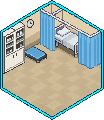
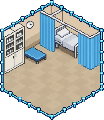
양호실 테두리를 운동장과 같은 청록색 울타리로 통일

Changed region(s): [[0.0, 0.0, 1.0, 1.0]]

diff --git a/docs/design.md b/docs/design.md
@@ -127,3 +127,5 @@
 - 양호실: 꼭짓점이 위/아래인 한 칸 육각형 안에 침대·커튼·약장을 재배치. 운동장: 위 두 칸/아래 한 칸 합집합 안에 트랙을 작게 넣고 아래는 운동 공간으로 구성. 원작 그대로의 복원 그림이 아님.
 - 두 전용 그림은 점유 경계 상자에 정렬하고, 모든 시설은 회전된 점유 칸 합집합으로 최종 클리핑해 바깥 침범을 방지. 예전의 전체 그림 무클리핑 방식은 폐기.
 - 생성 프롬프트: 양호실은 원본 베이지 바닥·푸른 커튼·침대·약장과 DS 도트 느낌을 보존해 정확한 정육각형으로 재구성, 외부 투명/인물·문자 없음. 운동장은 3칸 합집합 꼭짓점 (25,0),(50,14.286),(75,0),(100,14.286),(100,42.857),(75,57.143),(75,85.714),(50,100),(25,85.714),(25,57.143),(0,42.857),(0,14.286)에 맞춰 흙 트랙과 청색 울타리를 내부로 재구성, 외부 투명. 도트 해상도 정규화: tools/resize_facility.ps1.
+
+- 양호실 테두리 편집 프롬프트(built-in image_gen): 기존 양호실 내부의 약장·시계·벤치·침대·푸른 커튼·베이지 바닥 배치를 보존하고, 외곽선만 운동장 참조와 같은 청록/파랑 분절 난간 및 정사각 기둥으로 교체. 한 칸 정육각형과 104:120 비율 유지, 모든 기둥은 경계 안쪽, 외부 투명·문자/인물 없음. 최종 파일 clinic-hex.png(104×120).

diff --git a/docs/roadmap.md b/docs/roadmap.md
@@ -21,6 +21,7 @@
 | 8 | 런처 패키징 | 예정 |
 
 ### 7단계 진행 상황
+- 양호실 테두리 후속: 사용자 요청으로 얇은 외곽선을 운동장과 같은 청록색 기둥·난간 울타리로 통일.
 - 시설 후속 수정: 양호실·운동장 그림 자체를 육각 점유 형태에 맞춰 재구성한 전용 PNG 적용. 모든 시설의 최종 경계 클리핑 복구로 외부 침범 차단. 이전 무클리핑 확대/축소 수정은 이 방식으로 대체.
 - 수정: 사냥 로프 입력을 사육장 카메라·줌에서 분리해 캔버스 표시 크기로 변환. 시설 그림은 육각 클리핑을 제거하고 전체 그림을 비율 유지 축소/확대로 점유 영역 경계 상자에 맞춤(운동장 잘림 수정).
 - 완료: Claude 9104de9 변경 통합 후 사냥 대기·걷기 애니메이션 연결. 실제 변위 기준으로 재생하며 로프/와이어에 멈추면 대기, 수직 이동은 마지막 좌우 방향 유지. 일시정지·편지 중 프레임도 정지. 전용 도주·버둥거림·훈련·수면·전투 동작은 아직 미연결.
